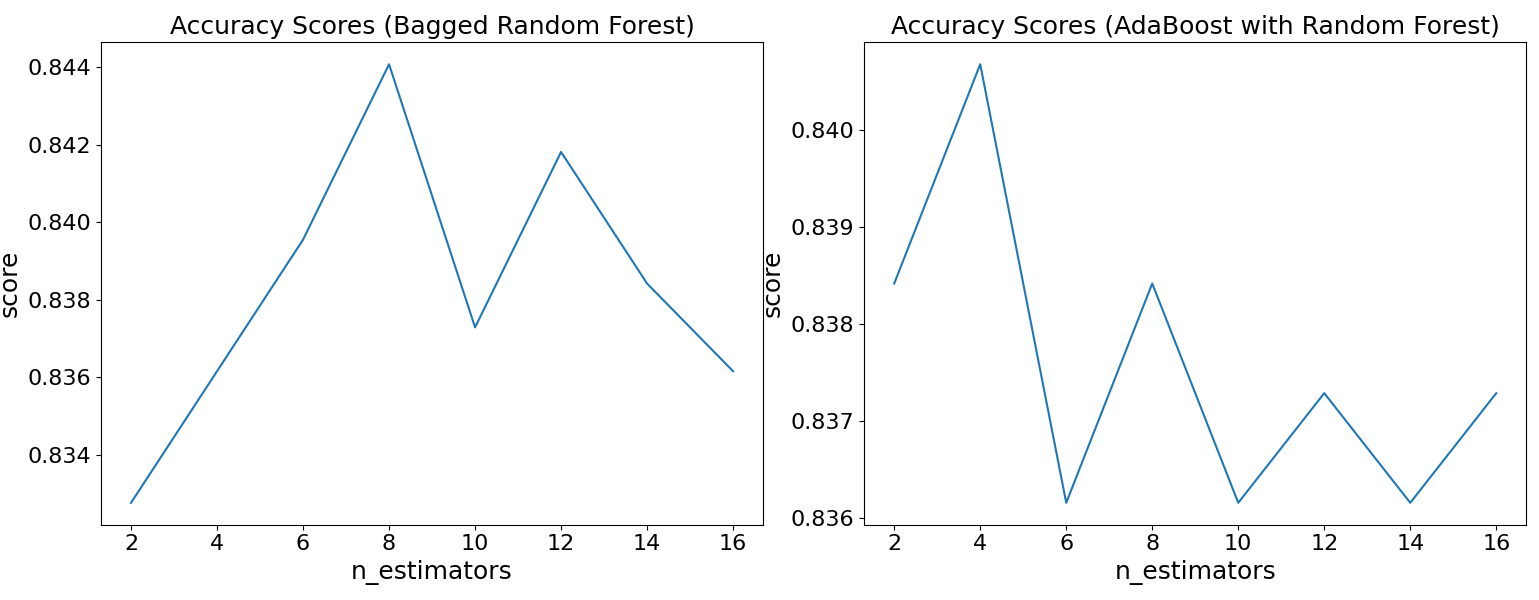
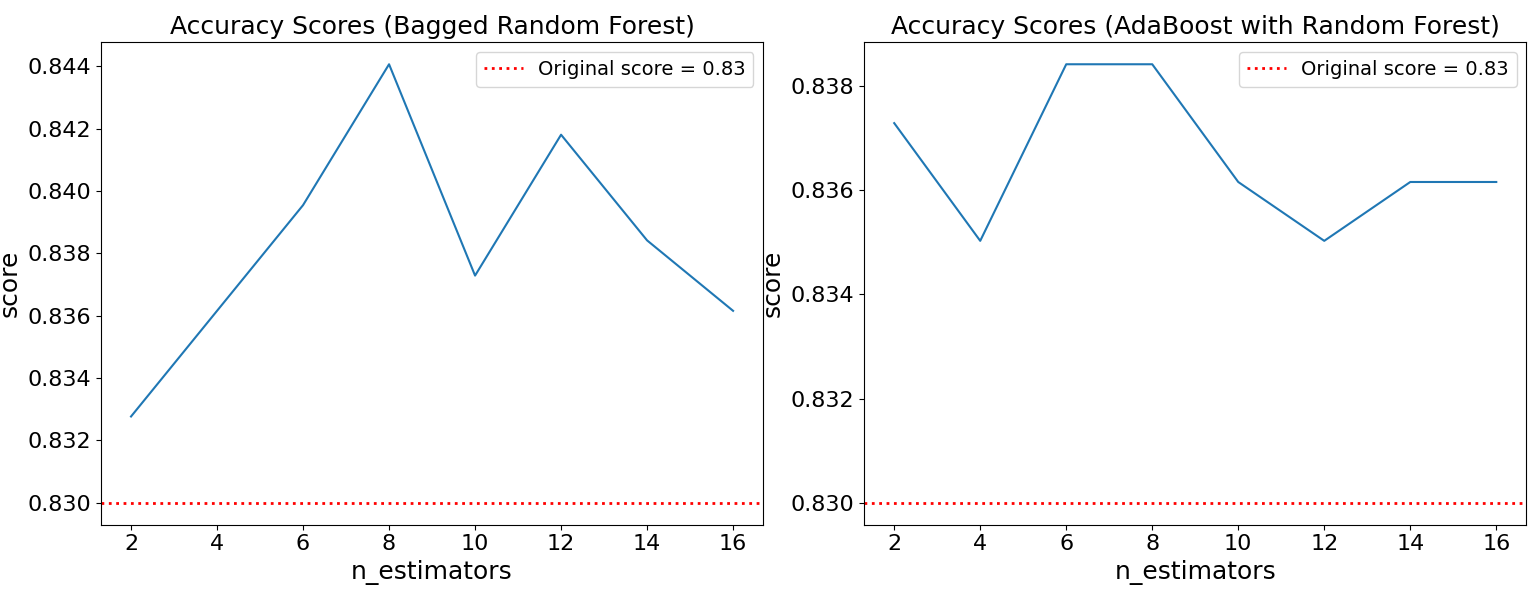
svm and plot cleanup

diff --git a/MLtasks/svm.py b/MLtasks/svm.py
@@ -8,10 +8,11 @@ from sklearn.decomposition import PCA
 import matplotlib.pyplot as plt
 from sklearn.model_selection import train_test_split
 from sklearn.metrics import accuracy_score
-from sklearn.ensemble import RandomForestClassifier
 from sklearn.preprocessing import MinMaxScaler
 from sklearn.ensemble import BaggingClassifier
 from sklearn.ensemble import AdaBoostClassifier
+from sklearn.ensemble import GradientBoostingClassifier
+from sklearn.svm import SVC
 
 df = pd.read_csv('graduation_dataset.csv')
 
@@ -123,20 +124,16 @@ pca = PCA(n_components=8)
 X_train_pca = pca.fit_transform(X_train_pca)
 X_test_pca = pca.transform(X_test_pca)
 
+# Support vector machine
+svm_rbf = SVC(kernel='rbf', gamma=0.5, C=1)
+svm_rbf.fit(X_train_pca, y_train)
+pred_rbf = svm_rbf.predict(X_test_pca)
+print("SVM accuracy score (RBF): ", accuracy_score(y_test, pred_rbf))
 
-# Random forest code
-# Create model
-model = RandomForestClassifier(n_estimators=200)
-model.fit(X_train_pca, y_train)
-
-y_pred_test = model.predict(X_test_pca)
-y_pred_train = model.predict(X_train_pca)
-
-print("Accuracy scores before bagging and boosting:")
-print("Random Forest accuracy (TRAIN): ", accuracy_score(y_train, y_pred_train))
-print("Random Forest accuracy (TEST): ", accuracy_score(y_test, y_pred_test))
-print("---------------------------------------------------------------")
-
+svm_linear = SVC(kernel='linear', C=1, probability=True)
+svm_linear.fit(X_train_pca, y_train)
+pred_linear = svm_linear.predict(X_test_pca)
+print("SVM accuracy score (Linear): ", accuracy_score(y_test, pred_linear))
 
 estimator_range = [2,4,6,8,10,12,14,16]
 scoresBag = []
@@ -144,24 +141,23 @@ scoresBoost = []
 
 for n_estimators in estimator_range:
     # Create the bagging classifier
-    model_bag = BaggingClassifier(n_estimators=n_estimators, estimator=model, random_state=42)
+    model_bag = BaggingClassifier(n_estimators=n_estimators, estimator=svm_linear, random_state=42)
     # Fit on training set
     model_bag.fit(X_train_pca, y_train)
     pred = model_bag.predict(X_test_pca)
     scoresBag.append(accuracy_score(y_test, pred))
+
+for n_estimators in estimator_range:
+    adaboost_rf = AdaBoostClassifier(estimator=svm_linear, n_estimators=n_estimators, learning_rate=0.1, algorithm='SAMME.R')
+    adaboost_rf.fit(X_train_pca, y_train)
+    pred = adaboost_rf.predict(X_test_pca)
+    scoresBoost.append(accuracy_score(y_test, pred))
 
 i=2
 for score in scoresBag:
     print("Random forest accuracy bagged", i, "base estimators:", score)
     i = i+2
 print("---------------------------------------------------------------")
-
-for n_estimators in estimator_range:
-    adaboost_rf = AdaBoostClassifier(estimator=model, n_estimators=n_estimators, learning_rate=0.1)
-    adaboost_rf.fit(X_train_pca, y_train)
-    pred = adaboost_rf.predict(X_test_pca)
-    scoresBoost.append(accuracy_score(y_test, pred))
-
 i=2
 for score in scoresBoost:
     print("Random forest accuracy boosted", i, "base estimators:", score)
@@ -170,7 +166,7 @@ print("---------------------------------------------------------------")
 
 # Create a figure with 1 row and 2 columns of subplots
 fig, axes = plt.subplots(1, 2, figsize=(18, 6))  # Adjust figsize for wider layout
-org_acc = round(accuracy_score(y_test, y_pred_test), 2)
+org_acc = round(accuracy_score(y_test, pred_linear), 2)
 
 # First plot
 axes[0].plot(estimator_range, scoresBag)
